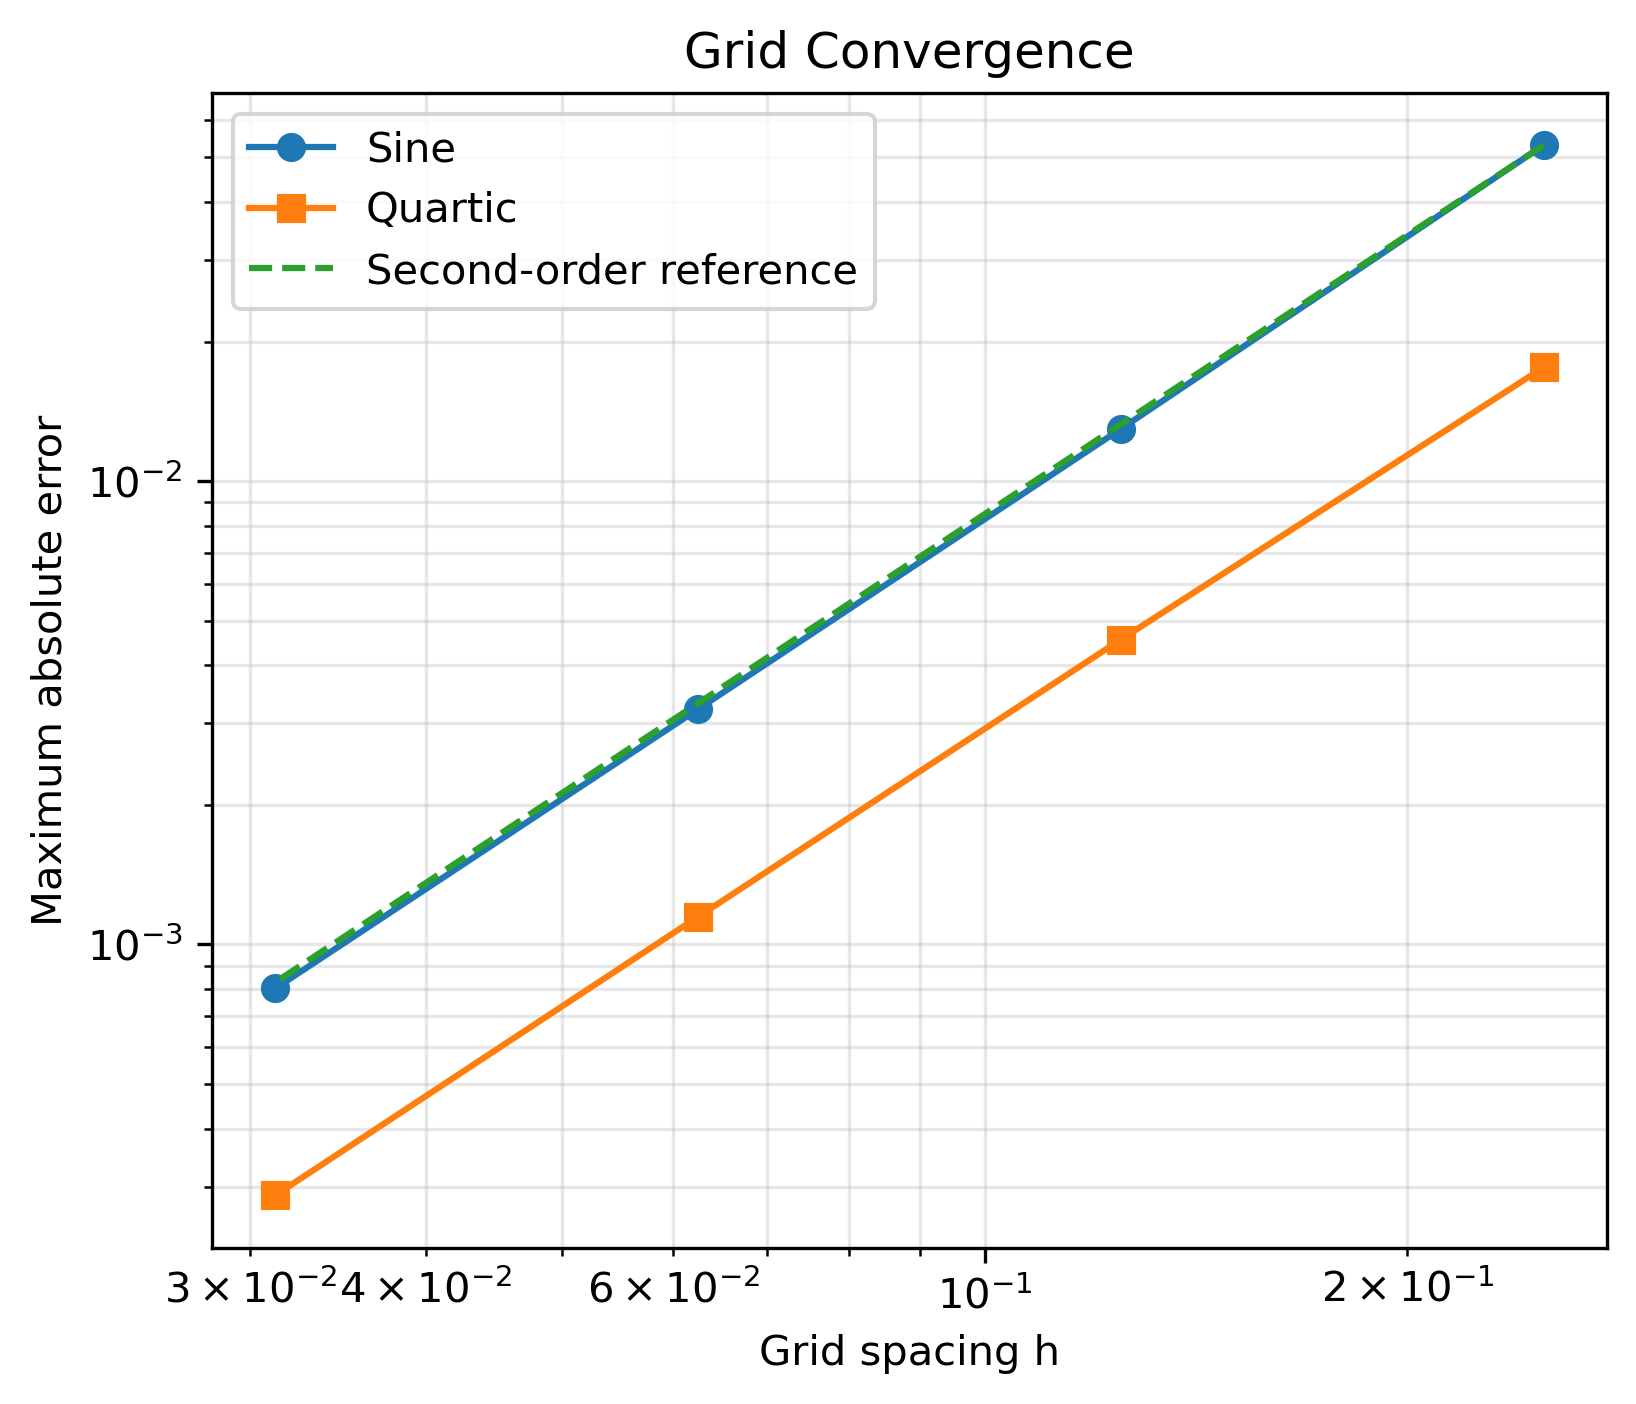
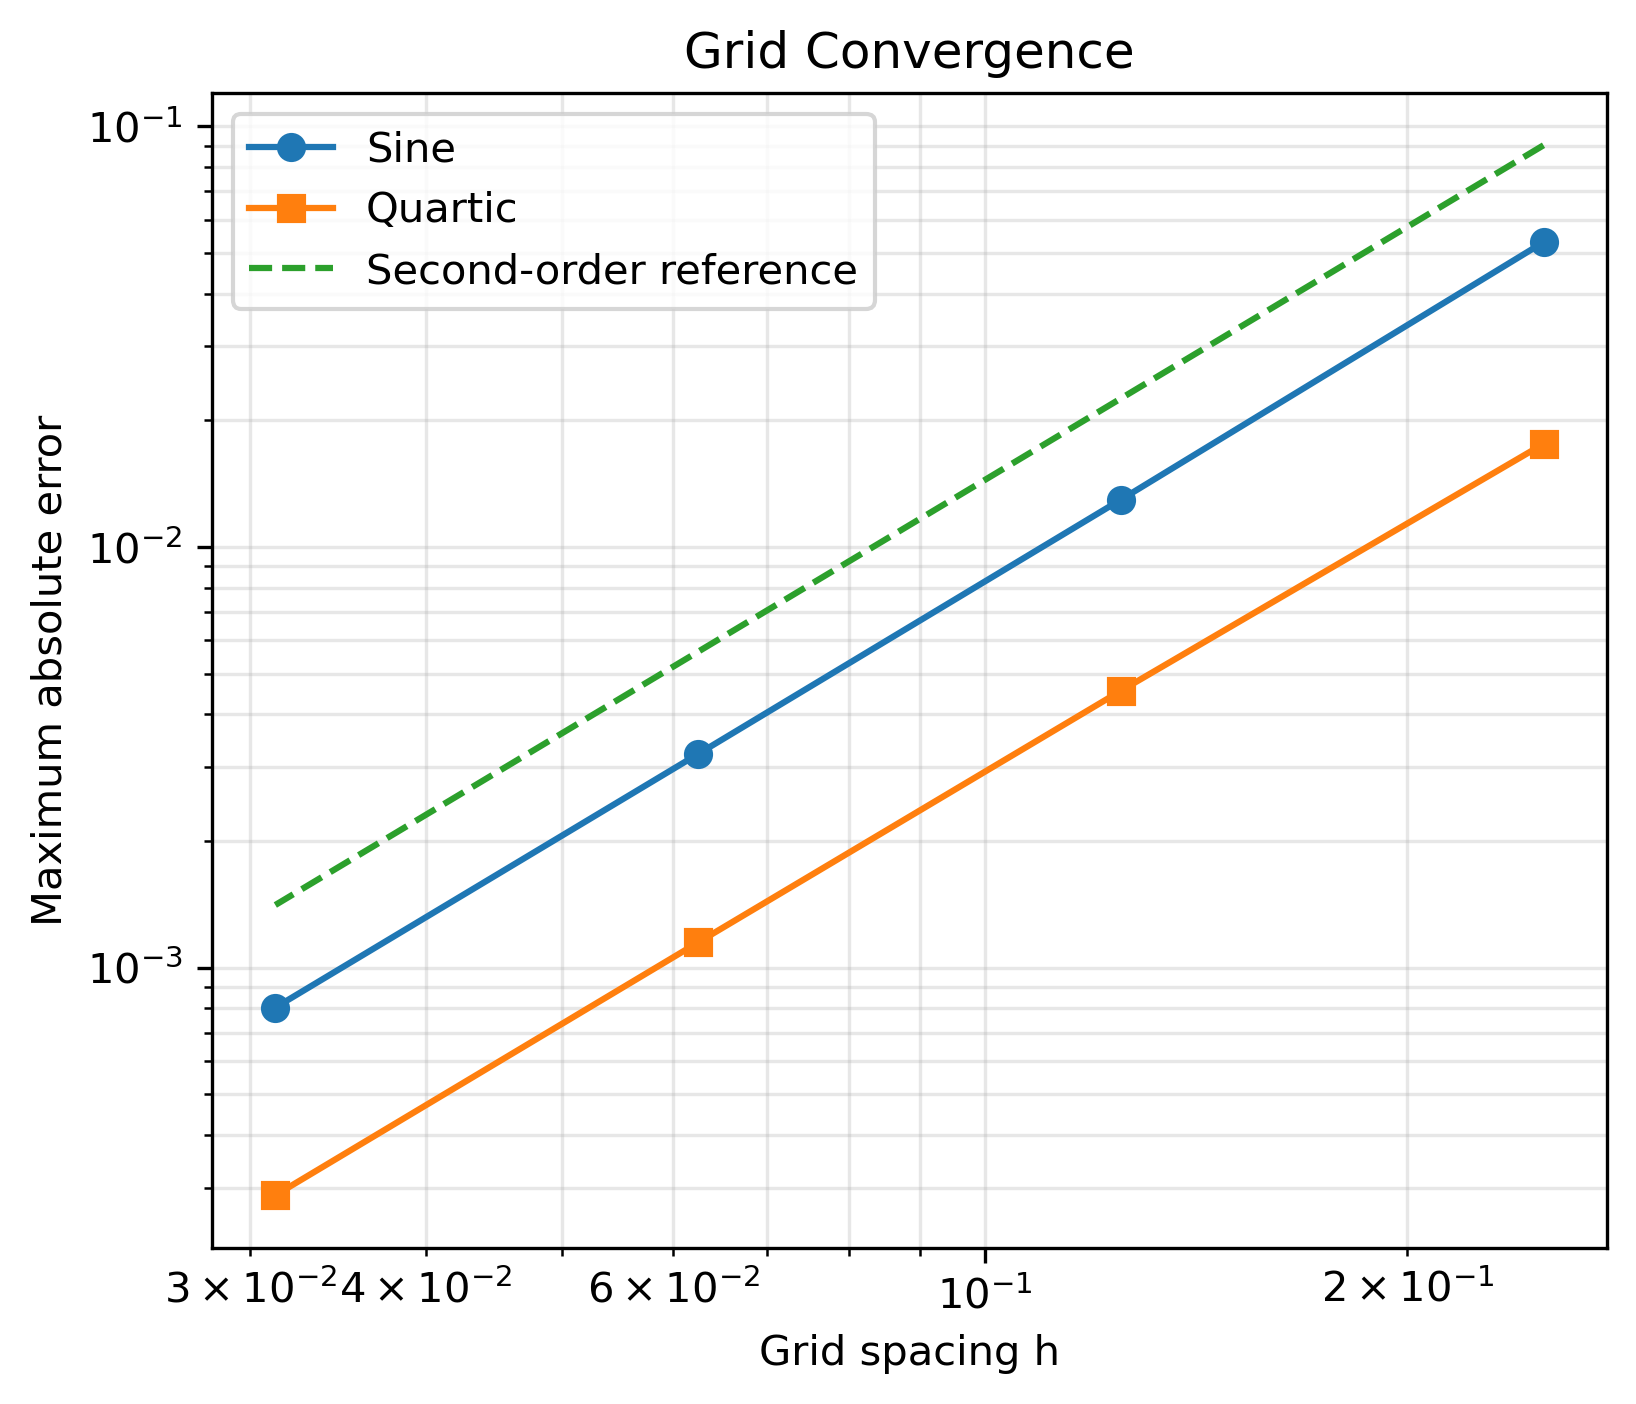
Add continuous integration and improve scientific figures

diff --git a/numericslab/plotting.py b/numericslab/plotting.py
@@ -31,7 +31,7 @@ def plot_solution_heatmap(grid, filename):
 def plot_convergence(grid_sizes, sine_errors, quartic_errors, filename):
     h = np.array([1 / (n + 1) for n in grid_sizes])
 
-    reference = sine_errors[0] * (h / h[0])**2
+    reference = 1.7*sine_errors[0] * (h / h[0])**2
 
     fig, ax = plt.subplots(figsize=(6, 5))
 
